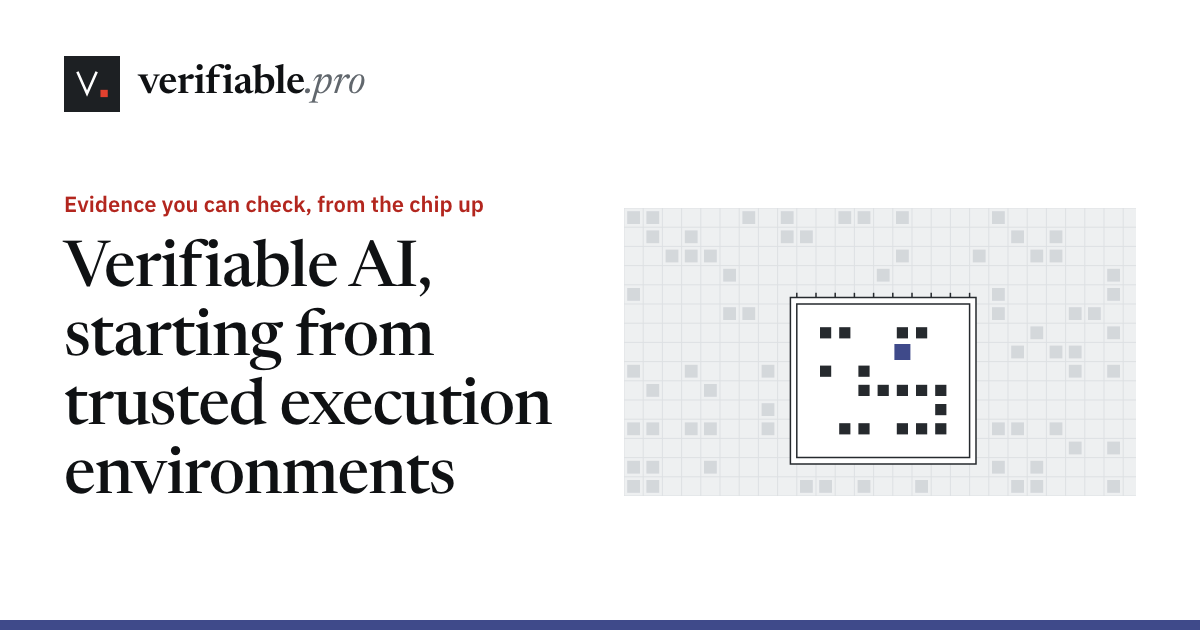
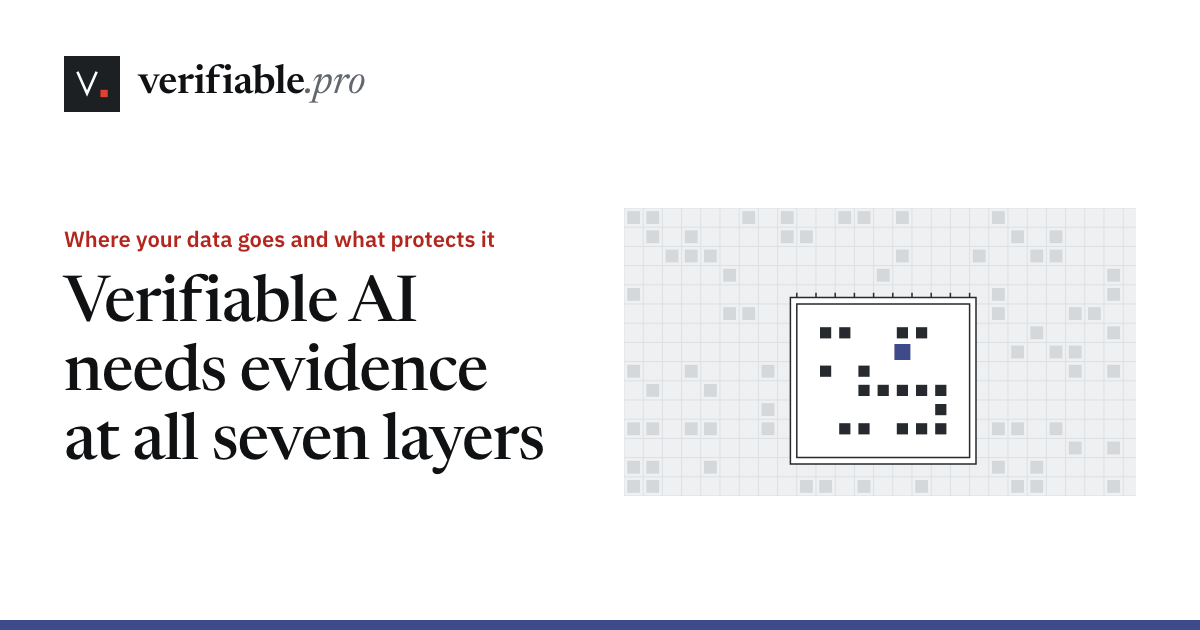
Say on the home page what the site is for and point at the seven layers
The owner found that the intro above the hero said neither what the
site is for nor how it relates to the drawing. The kicker now names the
reader's concern, the tagline states that verifiable AI needs evidence
at all seven layers drawn beside it, and the lead says what the site
does at those layers:

  Where your data goes and what protects it
  Verifiable AI needs evidence at all seven layers
  We report and analyze that evidence at each layer shown here, so you
  and your agents can check it.

  你的数据流向哪里、受到什么保护
  可验证 AI，七个层级都需要证据
  我们报道并分析图中每一层的证据，供你和你的智能体核查。

The tagline no longer spells out trusted execution environments, so
the first link does. The site's social cards are redrawn with the new
words; tools/og_images.py now accepts a Chinese font that Chrome
reports by its localized name, such as 蘋方-簡 for PingFang SC.
DESIGN.md records the change and owner decision 2, and CONTENT_GUIDE.md
describes the three lines.

Changed region(s): [[0.0308, 0.3016, 0.4625, 0.7841]]

diff --git a/tools/og_images.py b/tools/og_images.py
@@ -71,8 +71,10 @@ SEEDS = {}
 # The title's largest and smallest size in pixels, and how many lines it may take
 TITLE = {"en": (64, 46, 3), "zh": (60, 46, 2)}
 SITE_TITLE_LINES = {"en": 4, "zh": 2}
+# Chrome may report a macOS font by its localized family name, such as 蘋方-簡 for PingFang SC on a Mac
+# whose languages include Traditional Chinese, so the Chinese names count too
 CJK_FONTS = ("PingFang", "Songti", "Hiragino", "Noto Sans CJK", "Noto Serif CJK", "Source Han", "STSong", "STHeiti",
-             "Heiti", "Microsoft YaHei", "SimSun", "WenQuanYi")
+             "Heiti", "Microsoft YaHei", "SimSun", "WenQuanYi", "苹方", "蘋方", "宋体", "宋體", "冬青黑", "黑体", "黑體")
 
 
 # ----- inputs -------------------------------------------------------------------

diff --git a/DESIGN.md b/DESIGN.md
@@ -6,6 +6,14 @@ The stylesheets hold the values. This document names the tokens and components a
 
 ## Concept
 
+### The home intro states the site's aim and points at the seven layers (26 October 2026)
+
+The owner found that the intro above the hero said neither what the site is for nor how it relates to the drawing, and asked for more direct words. People, and the agents acting for them, need to know whether the AI system they talk to protects them, and the site reports and analyzes the work toward AI that can be checked at all seven layers drawn.
+
+- **The three lines.** The kicker names the reader's concern: "Where your data goes and what protects it" (你的数据流向哪里、受到什么保护). The tagline states the site's view beside the plates it describes: "Verifiable AI needs evidence at all seven layers" (可验证 AI，七个层级都需要证据). The one-sentence lead says what the site does at those layers: "We report and analyze that evidence at each layer shown here, so you and your agents can check it." It refers to the drawing as "shown here" (图中), because the drawing stands beside the intro on wide screens and below it on phones.
+- **The first link.** The tagline no longer spells out trusted execution environments, so the first link does: "Why we start from trusted execution environments (TEEs)" (我们为什么从可信执行环境（TEE）出发). In the 21rem column from 1184px, and on phones, it takes two lines.
+- **The social cards.** The site's cards carry the new kicker and tagline. `tools/og_images.py` also accepts a Chinese font that Chrome reports by its localized name, such as 蘋方-簡 for PingFang SC. Twenty indexable pages share the site's card, whose alt text repeats the kicker and tagline, so the IndexNow fingerprint now leaves that alt text out: a change of kicker or tagline notifies the two home pages, not all twenty.
+
 ### Muse and Grok among the hero's examples (25 October 2026)
 
 The owner asked that the Agents label show Muse, the personal agent Meta launched in September 2026, with its own mark in place of the Meta AI mark, that the Models label name Meta's newest model series, Muse Wonder, in place of Llama, and that it add xAI's Grok. Neither icon set carries the Muse mark, so it comes from the public-domain text logo on Wikimedia Commons ([Third-party notices](THIRD_PARTY_NOTICES.md#wikimedia-commons)); Grok's comes from Lobe Icons. A label shows at most seven examples (`MAX_HERO_EXAMPLES` in `sitegen/content.py`), which keeps it on one line from 45em, so Hugging Face left the Models label to make room for Grok. The Meta AI and Hugging Face marks stay in `sitegen/logos.py`.
@@ -458,7 +466,7 @@ The assistant ("Ask", 提问) is styled by `static/chat.css`, which the build li
 - **The evidence chain.** Each layer above T1 states in `content/topics.json` (`stack[].bind`) how its evidence is bound to the layer below, with a status: `deployed` (in use), `emerging` or `missing`. The Stack page's table draws a line through the layer codes: solid for deployed, dashed for emerging, two stubs and a gap for missing. The upper half of a row is the link from the layer above, the lower half the link to the layer below. The table also gives each binding in words, and a legend under it explains the line. The home page hero draws the same chain in its scene, at rest, with a legend of the chain as it is today (see [The hero](#the-hero)). A claim can be checked all the way up only while the chain is unbroken; where it breaks, checking stops.
 - **Who checks.** Each layer also says in `content/topics.json` (`stack[].checkers`) who outside the provider can check its claim, and with what evidence. It shows in the layer's card on the home page, as the "Who checks" line under a row on phones (at rest on T1 and T2, and on the other rows once opened), and under each claim in the Stack page's table.
 - **Stack cards.** A story's layer codes are a link to the first of its layers on the Stack page. On hover or keyboard focus, `site.js` opens a card with the whole stack from `#stack-data` and the story's layers marked. Touch screens, and pages without script, follow the link instead. The hero's layer cards are a different component (see [The hero](#the-hero)).
-- **Home band.** The intro is the kicker ("Evidence you can check, from the chip up"), the tagline, a one-sentence positioning and two links; the editor line is in the footer. From a 70rem band (1184px) it is a 21rem column beside the hero; between 56 and 70rem it is a masthead over the hero, the kicker and tagline beside the rest; below that it is one column over the hero. "Latest news" follows: the lead brief with its dek, and four more briefs beside it. The home page has no stack table.
+- **Home band.** The intro is the kicker ("Where your data goes and what protects it"), the tagline ("Verifiable AI needs evidence at all seven layers"), a one-sentence lead and two links; the editor line is in the footer. From a 70rem band (1184px) it is a 21rem column beside the hero; between 56 and 70rem it is a masthead over the hero, the kicker and tagline beside the rest; below that it is one column over the hero. "Latest news" follows: the lead brief with its dek, and four more briefs beside it. The home page has no stack table.
 
 ### Owner decisions
 
@@ -467,7 +475,7 @@ The hero's second round (22 October 2026) left five choices to the owner, and it
 | # | Decision | Now | The alternative, and how to switch |
 | --- | --- | --- | --- |
 | 1 | The chain at rest | Drawn by binding status: solid, dashed, broken | Drawn whole at rest, with the statuses only while a layer is open: set `HERO_CHAIN_REST = "whole"` in `sitegen/render.py`, and replace the chain sentence of `hero_scene_desc` with "An indigo line rises from the GPU die through a ring on every plate and ends at the seal." (一条靛蓝色的线从 GPU 芯片升起，穿过每块平板上的一个圆环，止于印章。) |
-| 2 | The kicker | "Evidence you can check, from the chip up" (从芯片往上，你能核查的证据) | "An unbroken chain of evidence, from the chip up", only with the chain drawn whole, or "A chain of evidence, from the chip up" (从芯片往上，一条证据链): edit `home_kicker` |
+| 2 | The kicker | "Where your data goes and what protects it" (你的数据流向哪里、受到什么保护), since 26 October 2026 | "Evidence you can check, from the chip up" (从芯片往上，你能核查的证据), the kicker until then, or "An unbroken chain of evidence, from the chip up", only with the chain drawn whole: edit `home_kicker` and redraw the site's social cards |
 | 3 | The editor line | In the footer's last line, after the copyright | Remove `a.footer-editor` from `Site.footer()` and the `home_editor` string |
 | 4 | Who checks at T1 and T2 | "Your device" (你的设备), addressing the reader | "A user's device" (用户的设备) in the two `checkers` texts |
 | 5 | The person | The drawn figure, which passed the review at 1440 and 390 in both themes | The simplified silhouette: coat, head, legs and phone, no arms |

diff --git a/CONTENT_GUIDE.md b/CONTENT_GUIDE.md
@@ -453,7 +453,7 @@ Row ids become anchors on the hub (`#plat-<id>`, `#svc-<id>`, `#limit-<id>` and 
 
 The file holds the interface text as `{"en": {...}, "zh": {...}}`, keyed by string id. Every key exists in both languages, and a unit test checks this. The exceptions are the `_one` variants, such as `articles_count_one`, which the templates use instead of the base key when a count is 1; Chinese needs none. Placeholders in braces, such as `{n}`, `{topic}`, `{date}` or `{year}`, are filled in by the templates and must survive translation. The `chat_*` keys belong to the site assistant. Changing a string does not change the manifest digest.
 
-`home_positioning` is the lead of Vision (the `positioning` include), and `home_lead` says it in one sentence in the home page's first band (Vision, which the band's first link opens, says the rest; a unit test keeps `home_lead` to one sentence), so edit them together with `vision.en.md` and `vision.zh.md`, and with the README's Scope section, which restates `home_positioning`. `home_title` is the home pages' title, which search results and link previews show (`<title>` and `og:title`): it starts with the site's name and says what the site covers, in at most about 60 characters in English and 30 in Chinese, and a unit test holds it to 60 and 30. The structured data still name the site `verifiable.pro`, and other pages append " | verifiable.pro" unless their title already names the site. Latest, Learn, Resources and Glossary use `*_meta_title` strings that name their subject in search results while keeping the short visible heading. Their `*_meta_description` strings, and those for the Stack and TEE hub, summarize the full introductions for search results and link previews. `home_kicker`, the line above the home page's tagline, is an owner decision: "Evidence you can check, from the chip up" (从芯片往上，你能核查的证据) suits the chain drawn as it holds today, and "An unbroken chain of evidence, from the chip up" fits only a chain drawn whole, since the page must not contradict its own legend. Change it only with the owner; [DESIGN.md](DESIGN.md) records the owner decisions and how to switch each. The site's social card shows `home_kicker` above `tagline`, so redraw the cards with `python3 tools/og_images.py` after changing either. `home_editor` is the editor line after the copyright in every page's footer: "Edited by Mengyuan Li" (编辑：Mengyuan Li). It remains a link to Vision's `#editor` section. `footer_about` briefly states only the site’s subject. Directly below it, the footer’s maintenance line reads "Maintained by SEPT Lab · Contributors" (由 SEPT Lab 维护 · 贡献者), with Contributors linking to the current-language `/contributors/` page. This entry appears only in the black footer, without a matching line in the home intro or a new main-navigation item. In the wordmark, colour only SEPT in #ff9b9b, the readable dark adaptation of the lab website’s canonical #990000; Lab stays in the footer’s neutral ink. The footer is black in both page themes, so keep this adaptation in the light page theme too. Use SEPT Lab as the maintenance name; Vision and About give its USC affiliation.
+`home_positioning` is the lead of Vision (the `positioning` include), and the README's Scope section restates it, so edit them together with `vision.en.md` and `vision.zh.md`. The home page's first band states the site's aim in three lines that point at the hero: `home_kicker` names the reader's concern, `tagline` says that verifiable AI needs evidence at all seven layers the hero draws, and `home_lead` says in one sentence what the site does at those layers. A unit test keeps `home_lead` to one sentence, of at most 100 characters in English and 40 in Chinese; Vision, which the band's first link opens, says the rest. `home_title` is the home pages' title, which search results and link previews show (`<title>` and `og:title`): it starts with the site's name and says what the site covers, in at most about 60 characters in English and 30 in Chinese, and a unit test holds it to 60 and 30. The structured data still name the site `verifiable.pro`, and other pages append " | verifiable.pro" unless their title already names the site. Latest, Learn, Resources and Glossary use `*_meta_title` strings that name their subject in search results while keeping the short visible heading. Their `*_meta_description` strings, and those for the Stack and TEE hub, summarize the full introductions for search results and link previews. `home_kicker`, the line above the home page's tagline, is an owner decision: "Where your data goes and what protects it" (你的数据流向哪里、受到什么保护) since 26 October 2026. It must not call the chain of evidence unbroken while the hero draws it broken, since the page must not contradict its own legend. Change it only with the owner; [DESIGN.md](DESIGN.md) records the owner decisions and how to switch each. The site's social card shows `home_kicker` above `tagline`, so redraw the cards with `python3 tools/og_images.py` after changing either. `home_editor` is the editor line after the copyright in every page's footer: "Edited by Mengyuan Li" (编辑：Mengyuan Li). It remains a link to Vision's `#editor` section. `footer_about` briefly states only the site’s subject. Directly below it, the footer’s maintenance line reads "Maintained by SEPT Lab · Contributors" (由 SEPT Lab 维护 · 贡献者), with Contributors linking to the current-language `/contributors/` page. This entry appears only in the black footer, without a matching line in the home intro or a new main-navigation item. In the wordmark, colour only SEPT in #ff9b9b, the readable dark adaptation of the lab website’s canonical #990000; Lab stays in the footer’s neutral ink. The footer is black in both page themes, so keep this adaptation in the light page theme too. Use SEPT Lab as the maintenance name; Vision and About give its USC affiliation.
 
 `lead_credit`, `lead_credit_spec` and `lead_credit_how` make the credit line under an illustration on its article page: `{spec}` in `lead_credit` becomes `lead_credit_spec`, linked to the published spec, and `lead_credit_how` links to About's `#illustrations` and repeats that section's heading, "How we choose photos and make illustrations" (我们如何选用照片和制作插图), so change it with the heading. `lead_photo_credit` (with `{credit}`) and `lead_photo_source` do the same for a photo, and under a photo whose license asks that changes be indicated (CC BY and CC BY-SA) the line ends with `lead_photo_edited` ("Cropped and color-adjusted"), or `lead_photo_graded` ("Color-adjusted") when its crop keeps the whole source. The license link shows the spec's `license` as written, such as "CC BY 4.0", except "Public domain", which names no license: it shows `lead_photo_public_domain` ("Public domain", 公有领域), so Chinese pages say it in Chinese.
 
